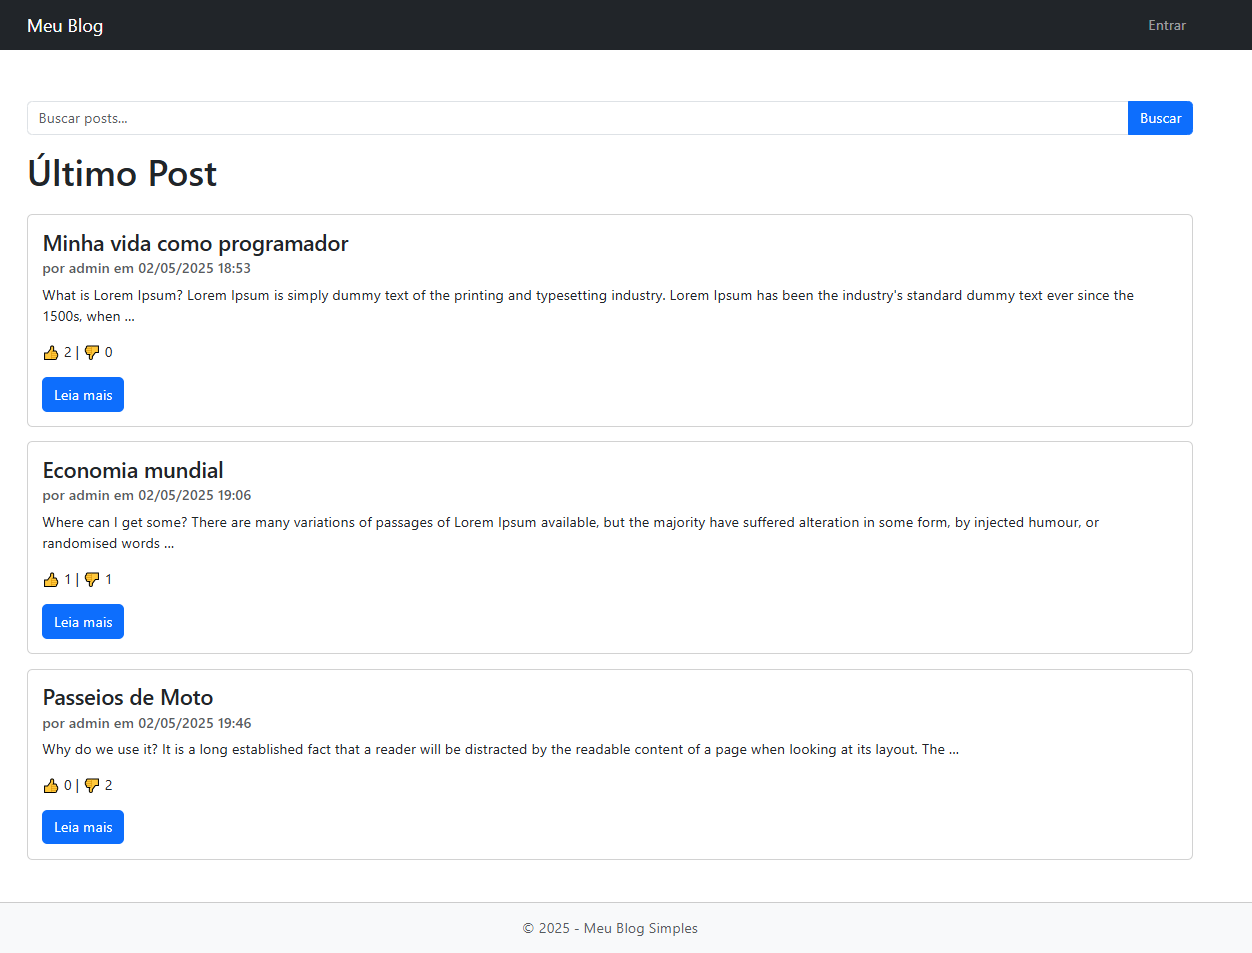
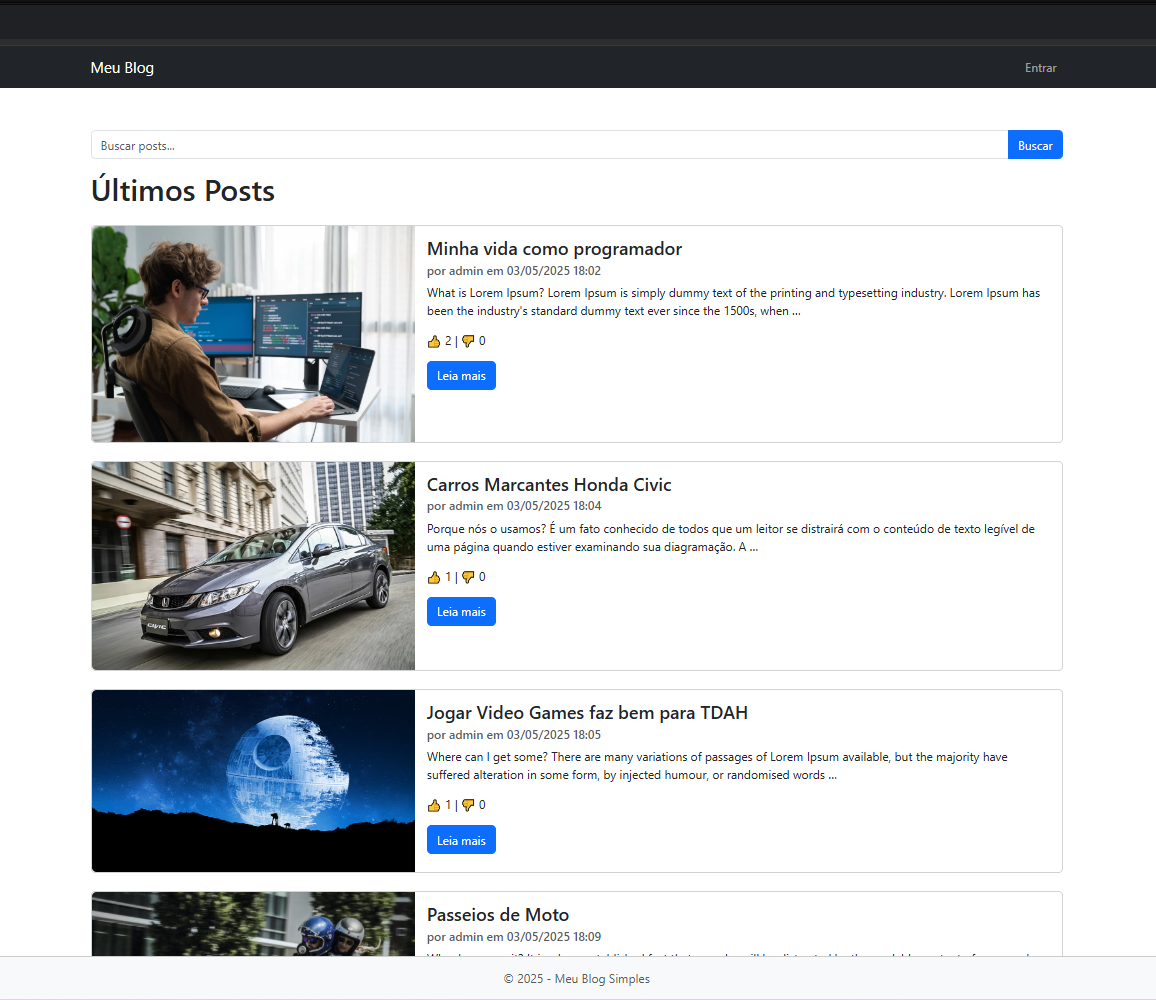
Adicionadno infomrações ao readme
Adicionando imagens para readme

atualizando requirementes.txt

Changed region(s): [[0.0311, 0.1217, 0.9031, 1.0], [0.0, 0.0, 1.0, 0.1826]]

diff --git a/app_blog/templates/app_blog/painel_admin.html b/app_blog/templates/app_blog/painel_admin.html
@@ -34,7 +34,9 @@
 </table>
 
 <h2 class="mt-5">Estatísticas dos Últimos Posts</h2>
-<canvas id="postChart" width="600" height="400"></canvas>
+<canvas id="postChart" width="400" height="200"></canvas>
+
+
 
 <!-- Chart.js CDN -->
 <script src="https://cdn.jsdelivr.net/npm/chart.js"></script>

diff --git a/app_blog/templates/app_blog/post_list.html b/app_blog/templates/app_blog/post_list.html
@@ -13,7 +13,7 @@
     </div>
 </form>
 
-<h1 class="mb-4">Último Post</h1>
+<h1 class="mb-4">Últimos Posts</h1>
 
 {% if posts %}
     {% for post in posts %}

diff --git a/app_blog/migrations/0007_post_video_url.py b/app_blog/migrations/0007_post_video_url.py
@@ -1,0 +1,18 @@
+# Generated by Django 5.2 on 2025-05-03 20:57
+
+from django.db import migrations, models
+
+
+class Migration(migrations.Migration):
+
+    dependencies = [
+        ('app_blog', '0006_post_visualizacoes'),
+    ]
+
+    operations = [
+        migrations.AddField(
+            model_name='post',
+            name='video_url',
+            field=models.URLField(blank=True, null=True, verbose_name='URL do vídeo do YouTube'),
+        ),
+    ]

diff --git a/README.md b/README.md
@@ -1,25 +1,35 @@
 # Blog Simples com Django
 
-Este é um projeto de **Blog Simples** desenvolvido com Django. O sistema permite publicar posts, 
+Este é um projeto de **Blog** desenvolvido com Django. O sistema permite publicar posts, 
 aprovar ou recusar publicações pelo admin, além de permitir que usuários anônimos interajam 
 com as postagens utilizando **botões de "Gostei" e "Não Gostei"**, sem precisar de login.
 
 
 ## Funcionalidades
 
-- Cadastro, edição e remoção de posts via Django Admin
-- Sistema de aprovação/recusa de postagens
+- Cadastro, edição e remoção de posts via Templates e Django Admin
+- Upload de imagens para cada post
+- Possibilidade de adicionar link de vídeo do YouTube (embed lado a lado com a imagem)
+- Sistema de aprovação/recusa de postagens pendentes pelo painel administrativo personalizado
 - Publicação e despublicação de posts
 - Interações anônimas com:
-  - Botão de Gostei
+  - Sistema de votos (like/dislike) para cada post (Botão de Gostei)
   - Botão de Não Gostei
   - Prevenção de múltiplos votos com cookies
 - Visualização das métricas de votos por postagem
+- Gráficos interativos com estatísticas (ex: curtidas, visualizações) usando Chart.js
+- Script dinâmico para atualização de votos via JavaScript
 - Layout com Bootstrap 5 responsivo
+
+## Autenticação e Permissões
+- Sistema de login integrado
+- Autores podem editar apenas seus próprios posts
+- Ações administrativas restritas a usuários autenticados
 
 ## Recursos e Extras
 - Cookies impedem que o mesmo usuário vote mais de uma vez (por navegador/dispositivo).
 - As interações são registradas em tempo real via JavaScript (fetch API).
+- Logs para monitoramento do sistema
 
 
 ## Imagens do Projeto
@@ -37,11 +47,28 @@ com as postagens utilizando **botões de "Gostei" e "Não Gostei"**, sem precisa
 ### Tela Administrativa do blog
 ![Tela nova Administração Blog](assets/admin_blog.png)
 
+## Tecnologias Utilizadas
+- Python 3
+- Django 4+
+- Bootstrap 5
+- JavaScript (ES6)
+- Chart.js
+- MySql
+
+## Possíveis Funcionalidades Futuras
+- Comentários por post
+- Sistema de categorias/tags
+- Busca por título ou conteúdo
+- Destaque de postagens populares
+- Página de perfil do autor
+- Agendamento de publicação
+- Exportação de métricas em CSV
 
 
 ## Licença
 Este projeto está licenciado sob a MIT License.
 
 ## Autor
-Douglas R. Silva
+Desenvolvido por **Douglas R. Silva**, Projeto para estudo de Django e aplicações web modernas.
+
 [Meu LinkedIn](https://www.linkedin.com/in/douglas-roberto-da-silva-7083b96a/) • [Meu GitHub](https://github.com/douglasinforj)
